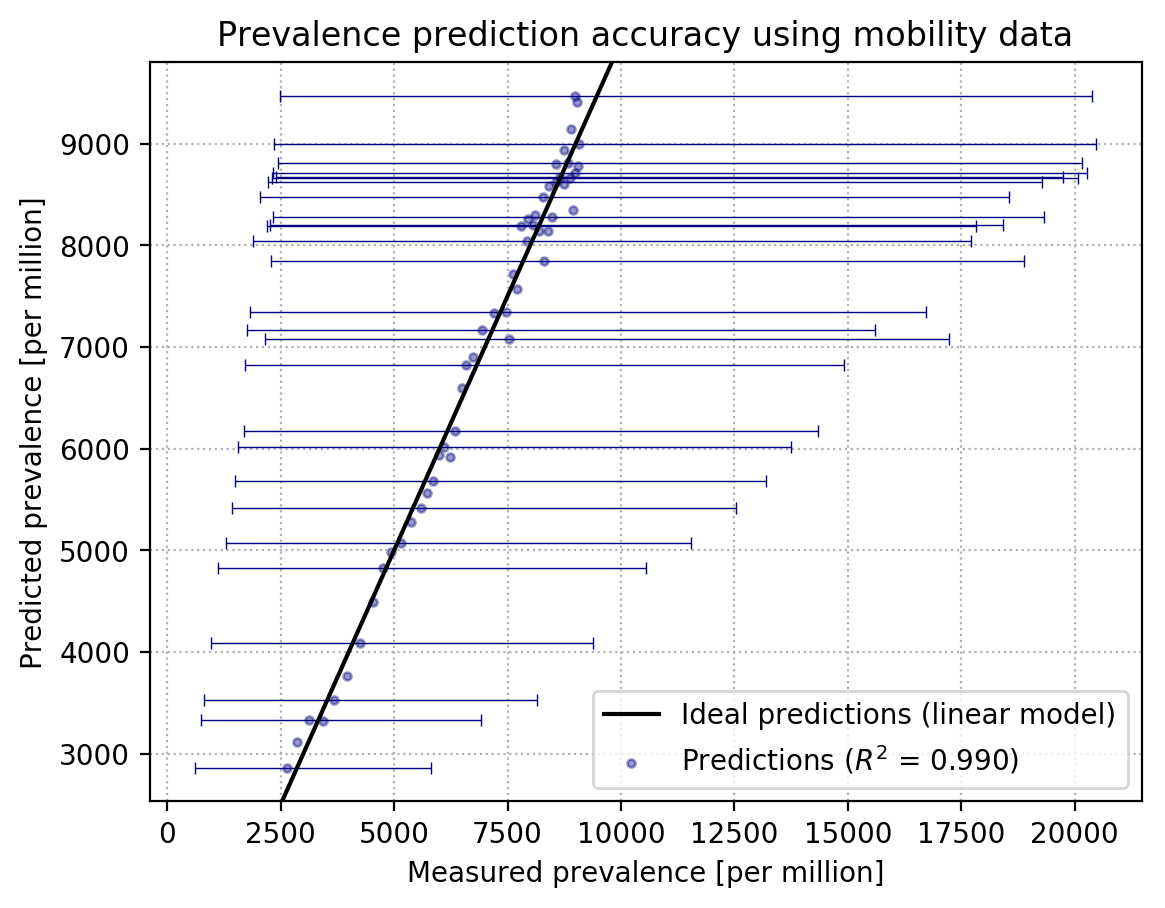
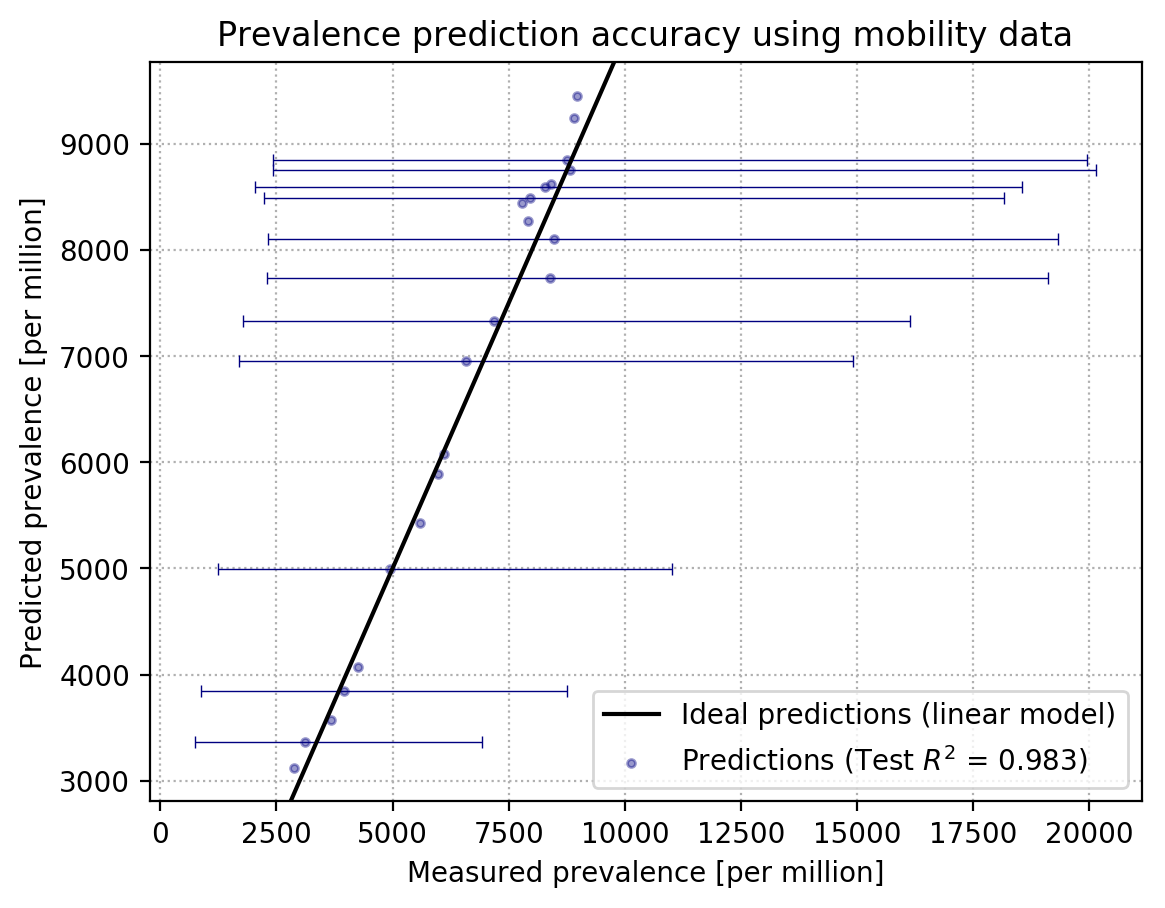
Added train/test split to the prevalence predictions. Current train R^2 = 0.991, test R^2 = 0.983. So the model can generalize quite well.

diff --git a/model_coronavirus_supression.py b/model_coronavirus_supression.py
@@ -1651,7 +1651,7 @@ def estimate_recent_R(enddate_train = '2020-10-25'):
 		### plot the predictions versus ground truth
 		fig, ax = plt.subplots()
 
-		ax.scatter(Y, clf.predict(X), alpha = 0.4, color = 'navy', s = 8, label = f'Predictions ($R^2$ = {r_squared_test:0.03f})')
+		ax.scatter(Y, clf.predict(X), alpha = 0.4, color = 'navy', s = 8, label = f'Predictions (Test $R^2$ = {r_squared_test:0.03f})')
 		#indicate one to one relationship
 		xlims = ax.get_xlim()
 		ylims = ax.get_ylim()
@@ -1689,7 +1689,7 @@ def estimate_recent_R(enddate_train = '2020-10-25'):
 		#indicate error margins on ground truth
 		ax1.fill_between(df_pred.index, df_pred['Rt_low'], df_pred['Rt_up'], alpha = 0.4, color = betterblue)
 
-		ln2 = ax1.plot(df_pred.index, Y_pred, label = f'Prediction ($R^2$: {r_squared_test:0.03f})', color = betterorange)
+		ln2 = ax1.plot(df_pred.index, Y_pred, label = f'Prediction (Test $R^2$: {r_squared_test:0.03f})', color = betterorange)
 
 		#also plot government response
 		#limit to days with prediction data
@@ -1818,10 +1818,25 @@ def estimate_recent_prevalence(enddate_train = '2020-11-01', smoothsize = 5):
 	'''
 
 	### get data into the shape required for sklearn functions
-	X_train = dataframes_to_NDarray(df_predictors_cor, parameters_used)
+	X = dataframes_to_NDarray(df_predictors_cor, parameters_used)
+	Y = np.array(df_prevalence_cor['prev_avg'])
+	weight = 1/np.array(df_prevalence_cor['prev_abs_error'])
 
-	Y_train = np.array(df_prevalence_cor['prev_avg'])
-	weight_train = 1/np.array(df_prevalence_cor['prev_abs_error'])
+	###split into train and test set
+	rs = ShuffleSplit(n_splits = 1, test_size = 0.4, random_state = 1923)
+
+	#get splitting indices
+	for train_index, test_index in rs.split(X, Y):
+		pass
+
+	#perform splitting
+	X_train = X[train_index]
+	Y_train = Y[train_index]
+	weight_train = weight[train_index]
+
+	X_test = X[test_index]
+	Y_test = Y[test_index]
+	weight_test = weight[test_index]
 
 	### apply regression
 	# clf = Ridge(alpha = 1.)
@@ -1829,20 +1844,22 @@ def estimate_recent_prevalence(enddate_train = '2020-11-01', smoothsize = 5):
 	# clf = AdaBoostRegressor()
 	clf.fit(X_train, Y_train, sample_weight = weight_train)
 
-	r_squared = clf.score(X_train, Y_train, sample_weight = weight_train)
+	r_squared_train = clf.score(X_train, Y_train, sample_weight = weight_train)
+	r_squared_test = clf.score(X_test, Y_test, sample_weight = weight_test)
 
-	print(f'R^2: {r_squared:0.03f}')
+	print(f'Train R^2: {r_squared_train:0.03f}')
+	print(f'Test R^2: {r_squared_test:0.03f}')
 
 
 	### plot accuracy of predictions using the predictions versus ground truth
 	fig, ax = plt.subplots()
 
-	train_pred = clf.predict(X_train)
-	ax.scatter(Y_train, train_pred, alpha = 0.4, color = 'navy', s = 8, label = f'Predictions ($R^2$ = {r_squared:0.03f})')
+	test_pred = clf.predict(X_test)
+	ax.scatter(Y_test, test_pred, alpha = 0.4, color = 'navy', s = 8, label = f'Predictions (Test $R^2$ = {r_squared_test:0.03f})')
 
 	#plot error bars
-	errorbar_data = np.stack((df_prevalence_cor['prev_low'].values, df_prevalence_cor['prev_up'].values))
-	ax.errorbar(Y_train, train_pred, xerr = errorbar_data, ecolor = 'navy', elinewidth = 0.5, capthick = 0.5, capsize = 2, errorevery = 2, ls = 'none')
+	errorbar_data = np.stack((df_prevalence_cor['prev_low'].values[test_index], df_prevalence_cor['prev_up'].values[test_index]))
+	ax.errorbar(Y_test, test_pred, xerr = errorbar_data, ecolor = 'navy', elinewidth = 0.5, capthick = 0.5, capsize = 2, errorevery = 2, ls = 'none')
 
 
 	#indicate one to one relationship
@@ -1871,8 +1888,8 @@ def estimate_recent_prevalence(enddate_train = '2020-11-01', smoothsize = 5):
 	### Now make predictions for the most recent data
 	#select the positive test data
 	df_predictors_pred = df_predictors.loc[df_predictors.index > startdate_for_cor]
-	print(df_predictors_pred.tail(10))
-	print('^ data used for predictions ^')
+	# print(df_predictors_pred.tail(10))
+	# print('^ data used for predictions ^')
 	#get data in sklearn shape
 	Xpred = dataframes_to_NDarray(df_predictors_pred, parameters_used)
 	#make the predictions
@@ -1893,7 +1910,7 @@ def estimate_recent_prevalence(enddate_train = '2020-11-01', smoothsize = 5):
 	ax1.fill_between(df_prevalence_sel.index, df_prevalence_sel['prev_low'], df_prevalence_sel['prev_up'], alpha = 0.4, color = betterblue)
 
 	#predictions
-	ln2 = ax1.plot(df_prevalence_pred.index, df_prevalence_pred['Prev_pred'], label = f'Linear prediction ($R^2 = {r_squared:0.03f}$)', color = betterorange)
+	ln2 = ax1.plot(df_prevalence_pred.index, df_prevalence_pred['Prev_pred'], label = f'Linear prediction (Test $R^2 = {r_squared_test:0.03f}$)', color = betterorange)
 
 	#also plot government response
 	df_response_plot = df_response.loc[df_response.index <= df_prevalence_pred.index[-1]]
@@ -1908,7 +1925,9 @@ def estimate_recent_prevalence(enddate_train = '2020-11-01', smoothsize = 5):
 
 	lns = ln1 + ln2 + ln3
 	labs = [l.get_label() for l in lns]
-	ax1.legend(lns, labs, loc = 'lower right')
+	ax1.legend(lns, labs, loc = 'lower right', prop = {'size': 10})
+
+	indicate_school_closed(ax1)
 
 	# ax.xaxis.set_tick_params(rotation = 45)
 	# ax.xaxis.set_major_locator(mdates.AutoDateLocator(minticks = 3, maxticks = 6))
@@ -1936,7 +1955,7 @@ def main():
 
 	estimate_recent_R(enddate_train = '2020-10-28')
 
-	# estimate_recent_prevalence(enddate_train = '2020-11-01')
+	estimate_recent_prevalence(enddate_train = '2020-11-01')
 
 	# plot_prevalence_R()
 
